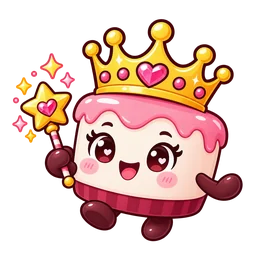
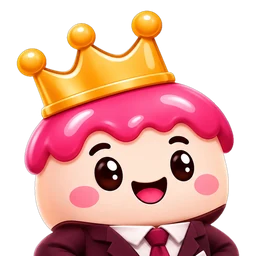
6.114: 6.114: Doo monta a ficha técnica (cadastra os ingredientes que faltam, liga ao produto e mostra o custo); tabelas e títulos formatados nas respostas; receita com Enviar (WhatsApp com o Doonly e o site) e PDF com o site no rodapé; foto nova da Doo
Claude-Session: https://claude.ai/code/session_01Tr1mYrTU9rTShFnbh3vuaV

diff --git a/src/lib/acoesDoo.ts b/src/lib/acoesDoo.ts
@@ -8,6 +8,8 @@ import { MAX_CUPONS_ATIVOS } from '@/lib/cupons'
 import { limparFacebook, limparInstagram } from '@/lib/redesSociais'
 import { adivinharTipo, normalizarChave, problemaNaChave } from '@/lib/pix'
 import { atualizarPontoDaLoja } from '@/lib/taxaEntrega'
+import { categoriaPeloNome } from '@/lib/categoriasInsumo'
+import { gravarInsumosDoProduto, procurarInsumoPorNome, salvarInsumoDoo } from '@/lib/insumosDoo'
 
 export type HorarioDoo = {
   dias?: string[]; abertura?: string; fechamento?: string
@@ -46,8 +48,15 @@ const fone = (v: string) => { const d = v.replace(/\D/g, '').replace(/^55(?=\d{1
 export type AcaoCupom = { acao: 'cupom'; codigo: string; tipo: 'percentual' | 'fixo'; valor: number; valor_minimo?: number | null; data_fim?: string | null; limite_uso?: number | null; publico?: 'todos' | 'primeiro_pedido' | null }
 /** (6.102) mão de obra e custos invisíveis (o que a ficha técnica usa para o custo) */
 export type AcaoCustos = { acao: 'custos'; salario_mensal?: number | null; horas_dia?: number | null; dias?: string[] | null; custos_invisiveis_pct?: number | null }
-export type AcaoDoo = AcaoCliente | AcaoProduto | AcaoOrcamento | AcaoLoja | AcaoCupom | AcaoCustos
-export const ACOES_DOO = ['cliente', 'produto', 'orcamento', 'loja', 'cupom', 'custos'] as const
+/** (6.114) ficha técnica pela conversa: o produto, os ingredientes com a quantidade da receita e, para os que ainda não existem, a embalagem e o preço */
+export type ItemFichaDoo = { insumo_id?: string | null; nome: string; quantidade: number; unidade: string
+  novo?: { unidade: string; qtd_embalagem: number; valor_compra: number; embalagem_tipo?: string | null; marca?: string | null } | null }
+export type AcaoFicha = { acao: 'ficha'; produto_id?: string | null; produto_nome: string; rendimento?: string | null; itens: ItemFichaDoo[] }
+export type AcaoDoo = AcaoCliente | AcaoProduto | AcaoOrcamento | AcaoLoja | AcaoCupom | AcaoCustos | AcaoFicha
+export const ACOES_DOO = ['cliente', 'produto', 'orcamento', 'loja', 'cupom', 'custos', 'ficha'] as const
+/** unidades da receita e a família (para conferir com a unidade do ingrediente) */
+const UNID: Record<string, { fam: string; base: number }> = { g: { fam: 'massa', base: 0.001 }, kg: { fam: 'massa', base: 1 }, ml: { fam: 'volume', base: 0.001 }, L: { fam: 'volume', base: 1 }, un: { fam: 'unidade', base: 1 }, m: { fam: 'comp', base: 1 }, cm: { fam: 'comp', base: 0.01 } }
+const unidadeOk = (u: unknown) => { const x = String(u || '').trim(); const y = x.toLowerCase() === 'l' ? 'L' : x.toLowerCase(); return UNID[y] ? y : null }
 const DIA_NUM: Record<string, number> = { seg: 1, ter: 2, qua: 3, qui: 4, sex: 5, sab: 6, dom: 7 }
 
 const brl = (v: number) => (Number(v) || 0).toLocaleString('pt-BR', { style: 'currency', currency: 'BRL' })
@@ -130,6 +139,17 @@ export function normalizarAcaoDoo(j: unknown): AcaoDoo | null {
       if (!cod || !v || v <= 0) return null
       return { acao: 'cupom', codigo: cod.slice(0, 20), tipo: o.tipo === 'fixo' ? 'fixo' : 'percentual', valor: v, valor_minimo: n(o.valor_minimo), data_fim: s(o.data_fim), limite_uso: n(o.limite_uso), publico: o.publico === 'primeiro_pedido' ? 'primeiro_pedido' : 'todos' }
     }
+    case 'ficha': {
+      const itens = Array.isArray(o.itens) ? (o.itens as Record<string, unknown>[]).map(i => {
+        const nv = i?.novo && typeof i.novo === 'object' ? i.novo as Record<string, unknown> : null
+        const novo = nv && unidadeOk(nv.unidade) && (n(nv.qtd_embalagem) ?? 0) > 0 && (n(nv.valor_compra) ?? 0) > 0
+          ? { unidade: unidadeOk(nv.unidade)!, qtd_embalagem: n(nv.qtd_embalagem)!, valor_compra: n(nv.valor_compra)!, embalagem_tipo: s(nv.embalagem_tipo), marca: s(nv.marca) } : null
+        return { insumo_id: s(i?.insumo_id), nome: s(i?.nome) || '', quantidade: n(i?.quantidade) ?? 0, unidade: unidadeOk(i?.unidade) || '', novo }
+      }).filter(i => i.nome && i.quantidade > 0 && i.unidade) : []
+      if (!s(o.produto_nome) && !s(o.produto_id)) return null
+      if (!itens.length) return null
+      return { acao: 'ficha', produto_id: s(o.produto_id), produto_nome: s(o.produto_nome) || '', rendimento: s(o.rendimento)?.slice(0, 60) || null, itens }
+    }
     case 'custos': {
       const sal = n(o.salario_mensal), hd = n(o.horas_dia), pct = n(o.custos_invisiveis_pct)
       const dias = Array.isArray(o.dias) ? (o.dias as unknown[]).map(d => String(d).toLowerCase().normalize('NFD').replace(/[\u0300-\u036f]/g, '').slice(0, 3)).filter(d => DIA_NUM[d]) : null
@@ -173,6 +193,13 @@ export function resumoAcaoDoo(a: AcaoDoo): { titulo: string; linhas: [string, st
         ['Pagamento', (a.pagamentos || []).map(k => NOME_PAG[k]).join(', ')], ['Troco', a.troco == null ? '' : a.troco ? 'Pergunta se precisa de troco' : 'Não pergunta'],
         ['Entrega', (a.entregas || []).map(k => NOME_ENT[k]).join(', ')], ['Horário de retirada', a.horario_retirada || ''], ['Taxa de entrega', tx],
         ['Pix', px], ['Cores', co], ['Loja', a.pausada == null ? '' : a.pausada ? 'Pausada (não recebe pedidos)' : 'Aberta para pedidos'],
+      ] as [string, string][]).filter(l => l[1]) }
+    }
+    case 'ficha': {
+      const q = (v: number) => String(Math.round(v * 1000) / 1000).replace('.', ',')
+      return { titulo: `Ficha técnica · ${a.produto_nome}`, linhas: ([
+        ...a.itens.map(i => [i.nome, `${q(i.quantidade)} ${i.unidade}${i.novo ? ` · novo: ${q(i.novo.qtd_embalagem)} ${i.novo.unidade} por ${brl(i.novo.valor_compra)}` : ''}`] as [string, string]),
+        ['Rendimento', a.rendimento || ''],
       ] as [string, string][]).filter(l => l[1]) }
     }
     case 'custos': return { titulo: 'Mão de obra e custos', linhas: ([
@@ -320,6 +347,50 @@ export async function executarAcaoDoo(uid: string, a: AcaoDoo): Promise<{ ok: tr
         const entregaPag = a.pagamentos || a.entregas || a.taxa || a.pix || a.troco != null || a.horario_retirada
         return { ok: true, feito: 'Loja atualizada', abrir: soCores ? '/cardapio-design' : entregaPag ? '/checkout-config' : '/cardapio-config' }
       }
+      case 'ficha': {
+        // 1) o produto: pelo id ou pelo nome
+        let prodId = a.produto_id || null
+        if (prodId) {
+          const { data } = await supabase.from('produtos').select('id').eq('id', prodId).eq('user_id', uid).maybeSingle()
+          if (!data) prodId = null
+        }
+        if (!prodId) {
+          const { data } = await supabase.from('produtos').select('id, nome').eq('user_id', uid).ilike('nome', a.produto_nome.trim()).limit(1)
+          prodId = (data as { id: string }[] | null)?.[0]?.id || null
+        }
+        if (!prodId) return { ok: false, erro: `Não achei o produto "${a.produto_nome}" no cardápio. Cadastre o produto primeiro.` }
+        // 2) cada ingrediente: o que já existe (pelo id ou pelo nome) ou cadastra o novo
+        const linhas: { insumo_id: string; quantidade: number; unidade_utilizada: string; quantidade_base: number; custo: number }[] = []
+        const novos: string[] = []
+        for (const i of a.itens) {
+          let ins: { id: string; nome: string; unidade: string; custo_unitario: number } | null = null
+          if (i.insumo_id) {
+            const { data } = await supabase.from('insumos').select('id, nome, unidade, custo_unitario').eq('id', i.insumo_id).eq('user_id', uid).maybeSingle()
+            ins = data as typeof ins
+          }
+          if (!ins) {
+            const achado = await procurarInsumoPorNome(uid, i.nome).catch(() => null)
+            if (achado) ins = { id: achado.id, nome: achado.nome, unidade: achado.unidade, custo_unitario: achado.custo_unitario }
+          }
+          if (!ins && i.novo) {
+            const r = await salvarInsumoDoo(uid, { acao: 'insumo', nome: i.nome, marca: i.novo.marca || '', categoria: categoriaPeloNome(i.nome) || 'Outros', unidade: i.novo.unidade, embalagem_tipo: i.novo.embalagem_tipo || 'Avulso', qtd_embalagem: i.novo.qtd_embalagem, valor_compra: i.novo.valor_compra })
+            if (r.ok === false) return { ok: false, erro: `${i.nome}: ${r.erro}` }
+            ins = { id: r.id, nome: i.nome, unidade: i.novo.unidade, custo_unitario: i.novo.valor_compra / i.novo.qtd_embalagem }
+            novos.push(i.nome)
+          }
+          if (!ins) return { ok: false, erro: `Falta o preço de ${i.nome}: diga quanto vem na embalagem e quanto pagou.` }
+          const uIns = UNID[ins.unidade === 'l' ? 'L' : ins.unidade], uRec = UNID[i.unidade]
+          if (!uIns || !uRec || uIns.fam !== uRec.fam) return { ok: false, erro: `${ins.nome} está cadastrado em ${ins.unidade} e a receita usa ${i.unidade}. Ajuste a unidade e tente de novo.` }
+          const naUnidadeDoInsumo = (i.quantidade * uRec.base) / uIns.base
+          linhas.push({ insumo_id: ins.id, quantidade: i.quantidade, unidade_utilizada: i.unidade, quantidade_base: i.quantidade * uRec.base, custo: naUnidadeDoInsumo * (Number(ins.custo_unitario) || 0) })
+        }
+        // 3) grava a ficha (substitui a anterior) e o rendimento
+        const { error } = await gravarInsumosDoProduto(prodId, linhas.map(l => ({ user_id: uid, produto_id: prodId, insumo_id: l.insumo_id, quantidade: l.quantidade, unidade_utilizada: l.unidade_utilizada, quantidade_base: l.quantidade_base })))
+        if (error) throw error
+        if (a.rendimento) await supabase.from('produtos').update({ rendimento_qtd: a.rendimento, updated_at: new Date().toISOString() }).eq('id', prodId)
+        const custo = linhas.reduce((t, l) => t + l.custo, 0)
+        return { ok: true, feito: `Ficha salva · ingredientes ${brl(custo)}${novos.length ? ` · ${novos.length} ingrediente${novos.length > 1 ? 's' : ''} novo${novos.length > 1 ? 's' : ''}` : ''}`, abrir: '/ficha-tecnica' }
+      }
       case 'custos': {
         if (a.salario_mensal != null || a.horas_dia != null || a.dias?.length) {
           const { data: atual } = await supabase.from('config_mao_obra').select('salario_mensal, horas_dia, dias_semana_array').eq('user_id', uid).maybeSingle()
@@ -425,6 +496,13 @@ ${estadoLoja(loja, h)}
 
 CUPOM (precisa do código e do desconto; tipo "percentual" ou "fixo" em reais; publico "primeiro_pedido" se for só para cliente novo; mínimo, validade AAAA-MM-DD e limite de usos só se ela falar).
 {"acao":"cupom","codigo":"NATAL10","tipo":"percentual","valor":10,"valor_minimo":null,"data_fim":null,"limite_uso":null,"publico":"todos"}
+
+FICHA TÉCNICA (ingredientes de um produto do cardápio, com a quantidade da receita). Você MONTA a ficha inteira num bloco só: não cadastre ingrediente por ingrediente.
+- produto_id: o id do produto na lista do cardápio (e produto_nome igual ao do cardápio). Se o produto não existe, ofereça cadastrar o produto antes.
+- Para cada ingrediente: nome, quantidade e unidade USADAS NA RECEITA (g, kg, ml, L, un). Se ele já está na lista de insumos dela, mande o insumo_id. Se não está, mande "novo" com a embalagem e o preço que ela informou (unidade, qtd_embalagem, valor_compra). Ingrediente novo sem preço: pergunte numa mensagem só, em lista, o preço e a embalagem de TODOS que faltam.
+- Use a unidade da receita na mesma família do cadastro (g ou kg para o que é pesado, ml ou L para líquido, un para ovos e embalagens).
+- "rendimento" se ela disser (ex.: "1 kg, 10 fatias"). A ficha nova substitui a anterior do produto.
+{"acao":"ficha","produto_id":"ID","produto_nome":"Bolo Mousse de Chocolate","rendimento":"1 kg","itens":[{"insumo_id":"ID","nome":"Leite condensado","quantidade":395,"unidade":"g"},{"insumo_id":null,"nome":"Gelatina incolor","quantidade":6,"unidade":"g","novo":{"unidade":"g","qtd_embalagem":24,"valor_compra":4.9,"embalagem_tipo":"Caixa"}}]}
 
 MÃO DE OBRA E CUSTOS INVISÍVEIS (o que a ficha técnica usa para o custo de cada produto). Pergunte uma coisa de cada vez: quanto ela quer tirar de salário por mês, quantas horas trabalha por dia e em quais dias produz. Custos invisíveis são gás, luz, água e perdas, em % sobre os ingredientes: se ela não souber, sugira 25% e explique em uma frase. Mande só o que ela disse.
 {"acao":"custos","salario_mensal":3000,"horas_dia":8,"dias":["seg","ter","qua","qui","sex","sab"],"custos_invisiveis_pct":25}

diff --git a/src/components/DooIA.tsx b/src/components/DooIA.tsx
@@ -1,6 +1,7 @@
 import { pegarPedidoDoo } from '@/components/MenuContaItens'
 import { useState, useRef, useEffect } from 'react'
-import { CaretLeft, X, Minus, Check, Copy, ImageSquare, ArrowRight, CurrencyCircleDollar, BookOpenText, InstagramLogo, Receipt, Package, NotePencil, DownloadSimple, Cake, Sparkle, FilePdf, Storefront } from '@phosphor-icons/react'
+import { CaretLeft, X, Minus, Check, Copy, ImageSquare, ArrowRight, CurrencyCircleDollar, BookOpenText, InstagramLogo, Receipt, Package, NotePencil, DownloadSimple, Cake, Sparkle, FilePdf, Storefront, WhatsappLogo } from '@phosphor-icons/react'
+import { card, gerarDocumento } from '@/lib/pdfDoonly'
 import { useNavigate as useNavigateDoo } from 'react-router-dom'
 import CartaoPedidoDoo from '@/components/doo/CartaoPedidoDoo'
 import { listarCatalogo, catalogoParaDoo, type RascunhoPedido, type ProdutoCat, type ClienteCat } from '@/lib/pedidosDoo'
@@ -386,7 +387,7 @@ function extrairAcao(reply: string): { texto: string; acao: RascunhoInsumo | Ras
   try {
     const j = JSON.parse(m[1].trim())
     if (j?.acao === 'pedido' && Array.isArray(j.itens) && j.itens.length) acao = j as RascunhoPedido
-    else if (['cliente', 'produto', 'orcamento', 'loja', 'cupom', 'custos'].includes(j?.acao)) acao = normalizarAcaoDoo(j)
+    else if (['cliente', 'produto', 'orcamento', 'loja', 'cupom', 'custos', 'ficha'].includes(j?.acao)) acao = normalizarAcaoDoo(j)
     else if (j?.acao === 'imagem' && ((typeof j.descricao === 'string' && j.descricao.trim()) || (typeof j.tema === 'string' && j.tema.trim()))) {
       const tipoJ = ['topo', 'arte', 'logo', 'banner'].includes(j.tipo) ? j.tipo : (j.topo !== false ? 'topo' : 'arte')
       const txt = (v: unknown) => (typeof v === 'string' ? v.trim().slice(0, 120) : '')
@@ -582,9 +583,26 @@ async function lerResposta(res: Response): Promise<RespostaDoo> {
   return data
 }
 
+/** (6.114) resposta que é receita: tem ingredientes e o modo de preparo */
+const ehReceita = (t: string) => /ingredientes/i.test(t) && /(modo de preparo|preparo|como fazer)/i.test(t) && t.length > 200
+/** o texto da receita sem as marcas do markdown, pronto para o WhatsApp */
+const receitaEmTexto = (t: string) => t.replace(NOTA_DO_APP, '').replace(/^[ \t]*#{1,4}[ \t]+(.+?)[ \t#]*$/gm, '*$1*').replace(/\*\*(.+?)\*\*/g, '*$1*').replace(/^\s*[-•]\s+/gm, '• ').trim()
+const tituloDaReceita = (t: string) => (t.match(/^[ \t]*#{1,4}[ \t]+(.+)$/m)?.[1] || t.match(/\*\*(.+?)\*\*/)?.[1] || 'Receita').replace(/[*#]/g, '').trim().slice(0, 60)
+const ASSINATURA_RECEITA = 'Receita feita com a Doo, a assistente do Doonly · doonly.com.br'
+
 function formatText(text: string): string {
   // Escapa o texto (a resposta vem da IA) e só então aplica negrito, itálico e listas.
   let h = text.replace(/&/g, '&amp;').replace(/</g, '&lt;').replace(/>/g, '&gt;')
+  // (6.114) tabela em markdown ("| Ingrediente | Quantidade |") vira tabela de verdade (antes aparecia com os "|---|")
+  h = h.replace(/(?:^[ \t]*\|.*\|[ \t]*(?:\n|$))+/gm, bloco => {
+    const linhas = bloco.trim().split('\n').map(l => l.trim()).filter(l => l && !/^\|[\s:|-]+\|$/.test(l))
+    if (!linhas.length) return bloco
+    const celulas = (l: string) => l.replace(/^\|/, '').replace(/\|$/, '').split('|').map(c => c.trim())
+    const [cab, ...corpo] = linhas
+    return `<div class="dz-tbw"><table class="dz-tb"><thead><tr>${celulas(cab).map(c => `<th>${c}</th>`).join('')}</tr></thead><tbody>${corpo.map(l => `<tr>${celulas(l).map(c => `<td>${c}</td>`).join('')}</tr>`).join('')}</tbody></table></div>\n`
+  })
+  // (6.114) "# Título" e "## Seção" viram títulos (antes os # apareciam na tela)
+  h = h.replace(/^[ \t]*#{1,4}[ \t]+(.+?)[ \t#]*$/gm, (_m, t: string) => `<b class="dz-h">${t.replace(/\*\*/g, '')}</b>`)
   h = h.replace(/\*\*(.+?)\*\*/g, '<strong>$1</strong>')
        .replace(/(^|[^*])\*(?!\s)([^*\n]+?)\*/g, '$1<em>$2</em>')
   h = h.replace(/^\s*[-•] (.+)$/gm, '<li>$1</li>')
@@ -593,6 +611,7 @@ function formatText(text: string): string {
   h = h.replace(/(?:<li>.*<\/li>\n?)+/g, m => `<ul>${m.replace(/\n/g, '')}</ul>`)
        .replace(/(?:<li data-n>.*<\/li>\n?)+/g, m => `<ol>${m.replace(/\n/g, '').replace(/ data-n/g, '')}</ol>`)
   h = h.replace(/<\/(ul|ol)>\n+/g, '</$1>').replace(/\n+(<ul>|<ol>)/g, '$1').replace(/\n{3,}/g, '\n\n')
+  h = h.replace(/<\/div>\n+/g, '</div>').replace(/\n+(<div class="dz-tbw">)/g, '$1')
   return h.replace(/\n/g, '<br/>')
 }
 
@@ -822,6 +841,16 @@ export default function DooIA({ forceOpen, onClose }: { forceOpen?: boolean; onC
     setPendingImage(null)
   }
 
+  // (6.114) receita: manda no WhatsApp ou gera o PDF (com o Doonly e o site no fim)
+  const enviarReceita = (t: string) => {
+    const msg = `${receitaEmTexto(t)}\n\n_${ASSINATURA_RECEITA}_`
+    window.open(`https://wa.me/?text=${encodeURIComponent(msg)}`, '_blank', 'noopener')
+  }
+  const pdfReceita = (t: string) => {
+    const titulo = tituloDaReceita(t)
+    void gerarDocumento(() => ({ titulo, tipo: 'Receita', numero: titulo,
+      corpo: card('', `<div class="rc">${formatText(t.replace(NOTA_DO_APP, ''))}</div>`) + `<p style="margin-top:14px;text-align:center;color:#C33A6E;font-weight:500">${ASSINATURA_RECEITA}</p>` }))
+  }
   const copyMessage = (text: string, index: number) => {
     navigator.clipboard.writeText(text).then(() => {
       setCopiedId(index)
@@ -1145,7 +1174,7 @@ export default function DooIA({ forceOpen, onClose }: { forceOpen?: boolean; onC
                         if (estado === 'salvo') listarInsumosResumo(uid).then(setInsumos).catch(() => {})
                       }} />
                   )}
-                  {msg.acao && uid && ['cliente', 'produto', 'orcamento', 'loja', 'cupom', 'custos'].includes(msg.acao.acao) && (
+                  {msg.acao && uid && ['cliente', 'produto', 'orcamento', 'loja', 'cupom', 'custos', 'ficha'].includes(msg.acao.acao) && (
                     <CartaoAcaoDoo uid={uid} acao={msg.acao as AcaoDoo} estado={!msg.acaoEstado || msg.acaoEstado === 'editando' ? 'pendente' : msg.acaoEstado}
                       feito={msg.acaoFeito} abrir={msg.acaoAbrir} aoAbrir={handleClose}
                       onFeito={(estado, info) => {
@@ -1154,6 +1183,7 @@ export default function DooIA({ forceOpen, onClose }: { forceOpen?: boolean; onC
                         if (estado === 'salvo') dooResponde(respostaFeito(msg.acao as AcaoDoo, info?.feito || ''))
                         if (estado === 'salvo') {
                           listarCatalogo(uid).then(c => { const v = { produtos: c.produtos, clientes: c.clientes }; catRef.current = v; setCatalogo(v) }).catch(() => {})
+                          if ((msg.acao as AcaoDoo).acao === 'ficha') listarInsumosResumo(uid).then(l => { insRef.current = l; setInsumos(l) }).catch(() => {}) // (6.114) os ingredientes novos da ficha
                           if ((msg.acao as AcaoDoo).acao === 'loja') void lerLoja(uid)
                         }
                       }} />
@@ -1163,6 +1193,10 @@ export default function DooIA({ forceOpen, onClose }: { forceOpen?: boolean; onC
                       <button type="button" onClick={() => copyMessage(msg.content.replace(NOTA_DO_APP, ''), i)} className={copiedId === i ? 'ok' : ''}>
                         {copiedId === i ? <><Check size={16} weight="bold" />Copiado</> : <><Copy size={16} weight="bold" />Copiar</>}
                       </button>
+                      {ehReceita(msg.content) && <>
+                        <button type="button" onClick={() => enviarReceita(msg.content)}><WhatsappLogo size={16} weight="bold" />Enviar</button>
+                        <button type="button" onClick={() => pdfReceita(msg.content)}><FilePdf size={16} weight="bold" />PDF</button>
+                      </>}
                       {msg.oferecerNova && i === messages.length - 1 && (
                         <button type="button" onClick={novaConversa}><NotePencil size={16} weight="bold" />Nova conversa</button>
                       )}
@@ -1301,6 +1335,13 @@ export default function DooIA({ forceOpen, onClose }: { forceOpen?: boolean; onC
         .dz-hav img { width: 100%; height: 100%; object-fit: cover; object-position: top center; border-radius: var(--ui-raio); display: block; }
         .dz-hav i { position: absolute; right: -3px; bottom: -3px; width: 14px; height: 14px; border-radius: 50%; background: #22C55E; border: 2.5px solid var(--ui-texto); }
         .dz-ht { flex: 1; min-width: 0; }
+        .dz-h { display: block; margin: 6px 0 2px; font-size: 15.5px; font-weight: 600; color: var(--ui-texto); }
+        /* (6.114) tabela nas respostas da Doo */
+        .dz-tbw { overflow-x: auto; margin: 8px 0; }
+        .dz-tb { width: 100%; border-collapse: collapse; font-size: 13.5px; }
+        .dz-tb th { text-align: left; font-weight: 600; color: var(--ui-texto-2); font-size: 12.5px; padding: 6px 8px; border-bottom: 1px solid var(--ui-borda); white-space: nowrap; }
+        .dz-tb td { padding: 6px 8px; border-bottom: 1px solid var(--ui-linha); vertical-align: top; }
+        .dz-tb td:not(:first-child), .dz-tb th:not(:first-child) { text-align: right; white-space: nowrap; }
         .dz-ht b { display: flex; align-items: center; gap: 7px; font-size: 17px; font-weight: 600; }
         .dz-ht em { font-style: normal; font-size: 12px; font-weight: 600; padding: 2px 7px; border-radius: 6px; background: linear-gradient(90deg, #F9A8D4, #C4B5FD); color: var(--ui-texto); }
         .dz-ht small { display: flex; align-items: center; gap: 6px; font-size: 12.5px; color: #BBF7D0; margin-top: 2px; white-space: nowrap; }

diff --git a/src/lib/versao.ts b/src/lib/versao.ts
@@ -2,4 +2,4 @@
  * Versão do app — aparece no menu da foto e vai junto nas sugestões e nos problemas relatados.
  * A cada atualização publicada, sobe 1 no número depois do ponto: 2.0 → 2.1 → 2.2 …
  */
-export const VERSAO_APP = "6.113";
+export const VERSAO_APP = "6.114";
